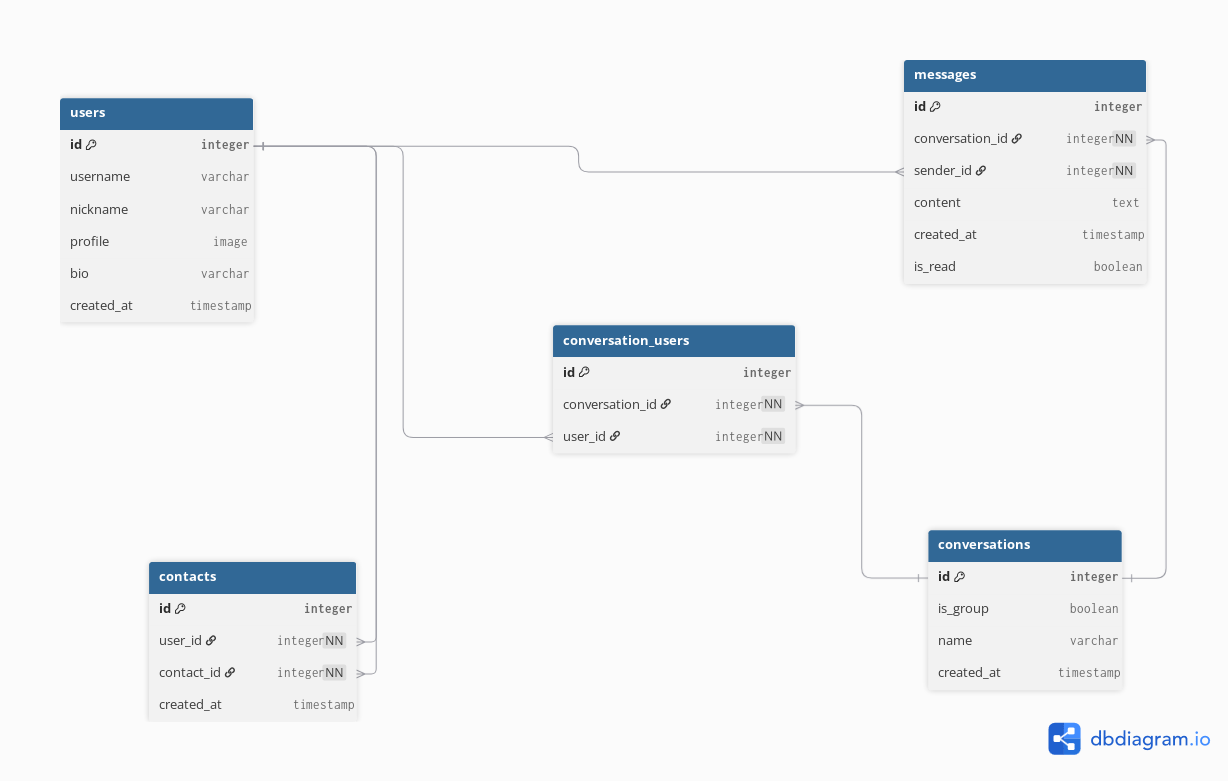
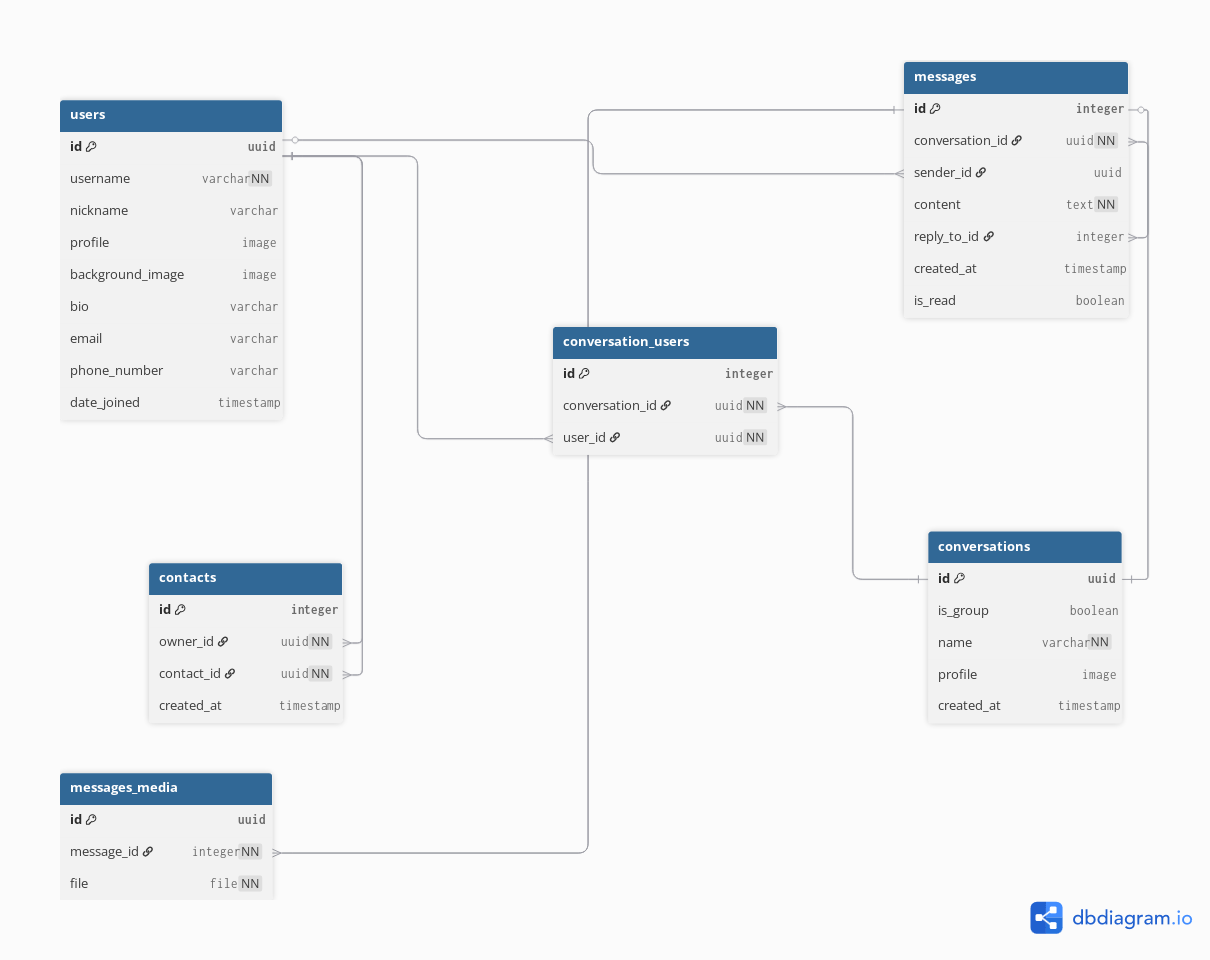
:card_file_box: Created message media table for media uploading in the chat , added phone number field to the user table

diff --git a/backend/chat/models.py b/backend/chat/models.py
@@ -45,6 +45,13 @@ class Message(models.Model):
         User, verbose_name="Sender", on_delete=models.SET_NULL, null=True
     )
     content = models.TextField()
+    reply_to = models.ForeignKey(
+        "self",
+        on_delete=models.SET_NULL,
+        null=True,
+        blank=True,
+        related_name="replies",
+    )
     created_at = models.DateTimeField(auto_now_add=True, verbose_name="Sent at")
     is_read = models.BooleanField(default=False, verbose_name="Seen status")
 
@@ -59,3 +66,14 @@ class Contact(models.Model):
 
     class Meta:
         unique_together = ("owner", "contact")
+
+
+class MessagesMedia(models.Model):
+    id = models.UUIDField(primary_key=True, default=uuid.uuid4, editable=False)
+    message = models.ForeignKey(
+        Message,
+        on_delete=models.CASCADE,
+        related_name="media_files",
+        verbose_name="Message",
+    )
+    file = models.FileField(upload_to="messages_media/")

diff --git a/backend/user/models.py b/backend/user/models.py
@@ -2,6 +2,7 @@ from django.contrib.auth.models import AbstractUser
 from django.db import models
 from cloudinary.models import CloudinaryField
 from cloudinary import CloudinaryImage
+from phonenumber_field.modelfields import PhoneNumberField
 import uuid
 
 class User(AbstractUser):
@@ -10,7 +11,14 @@ class User(AbstractUser):
     profile = CloudinaryField("profile",blank=True, null=True)
     background_image = CloudinaryField("background_image",blank=True,null=True)
     bio = models.CharField(max_length=80, verbose_name="Bio", blank=True, null=True)
-    email = models.EmailField(unique=True,verbose_name="Email")
+    email = models.EmailField(verbose_name="Email", blank=True, null=True)
+    phone_number = PhoneNumberField(
+        max_length=20,
+        verbose_name="Phone Number",
+        blank=True,
+        null=True,
+        unique=True,
+    )
 
     def __str__(self):
         return self.username

diff --git a/backend/backend/settings.py b/backend/backend/settings.py
@@ -47,6 +47,7 @@ INSTALLED_APPS = [
     "corsheaders",
     "cloudinary",
     "django_elasticsearch_dsl",
+    "phonenumber_field",
 ]
 
 # --- Middleware ---
